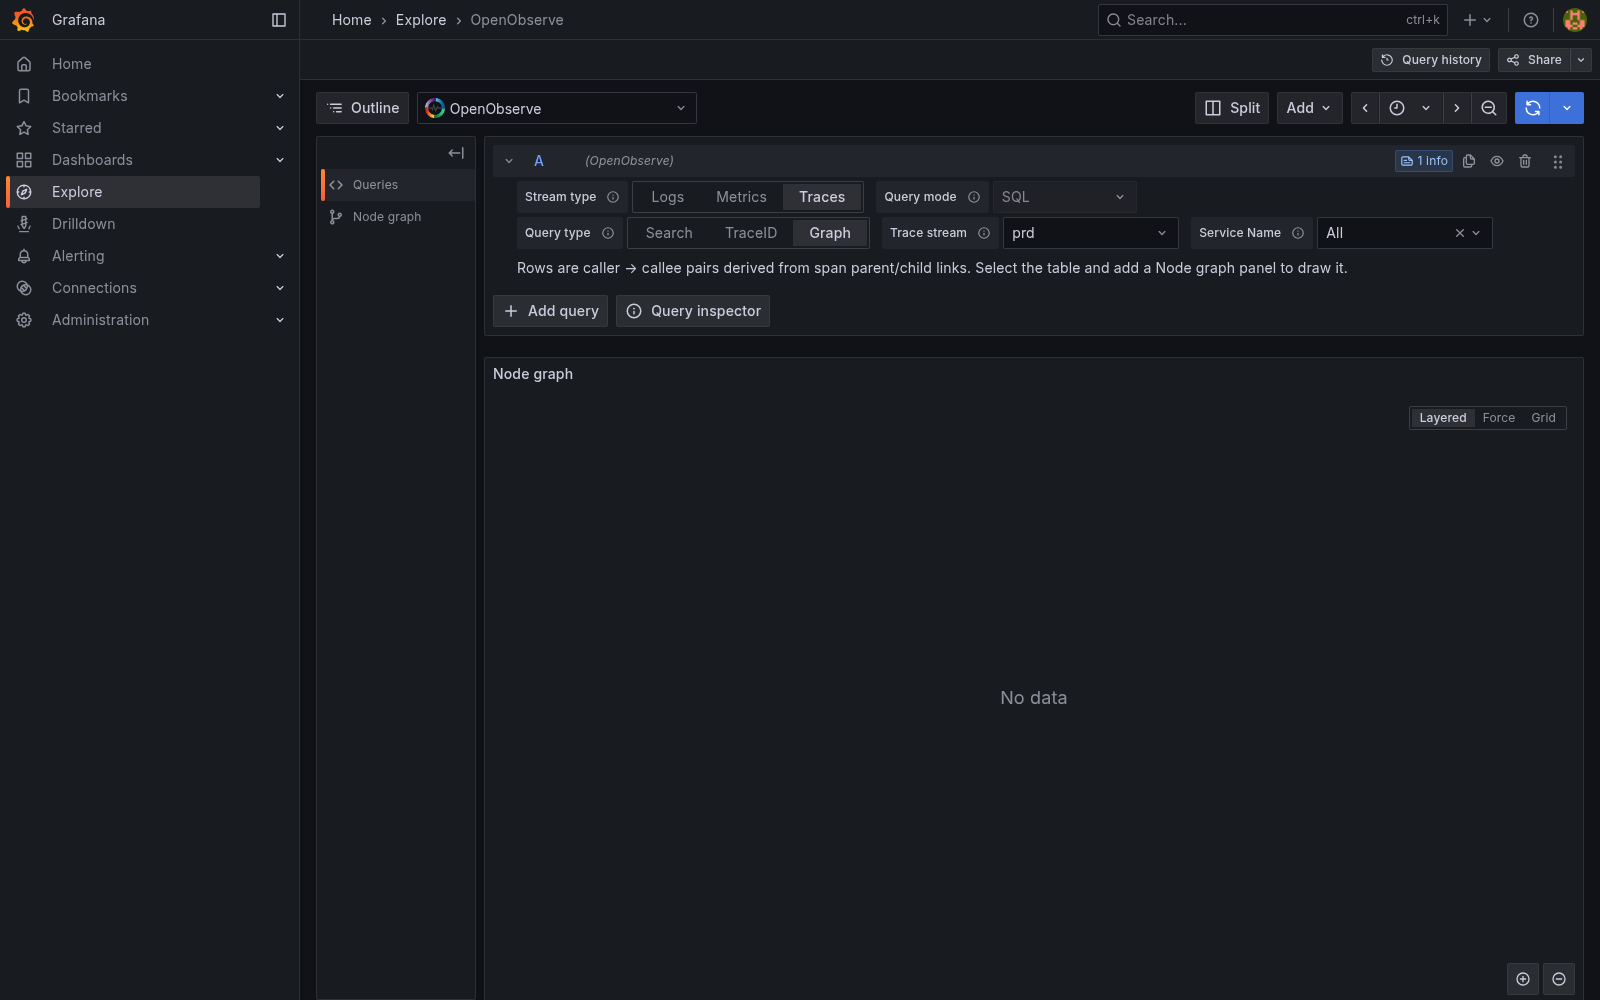
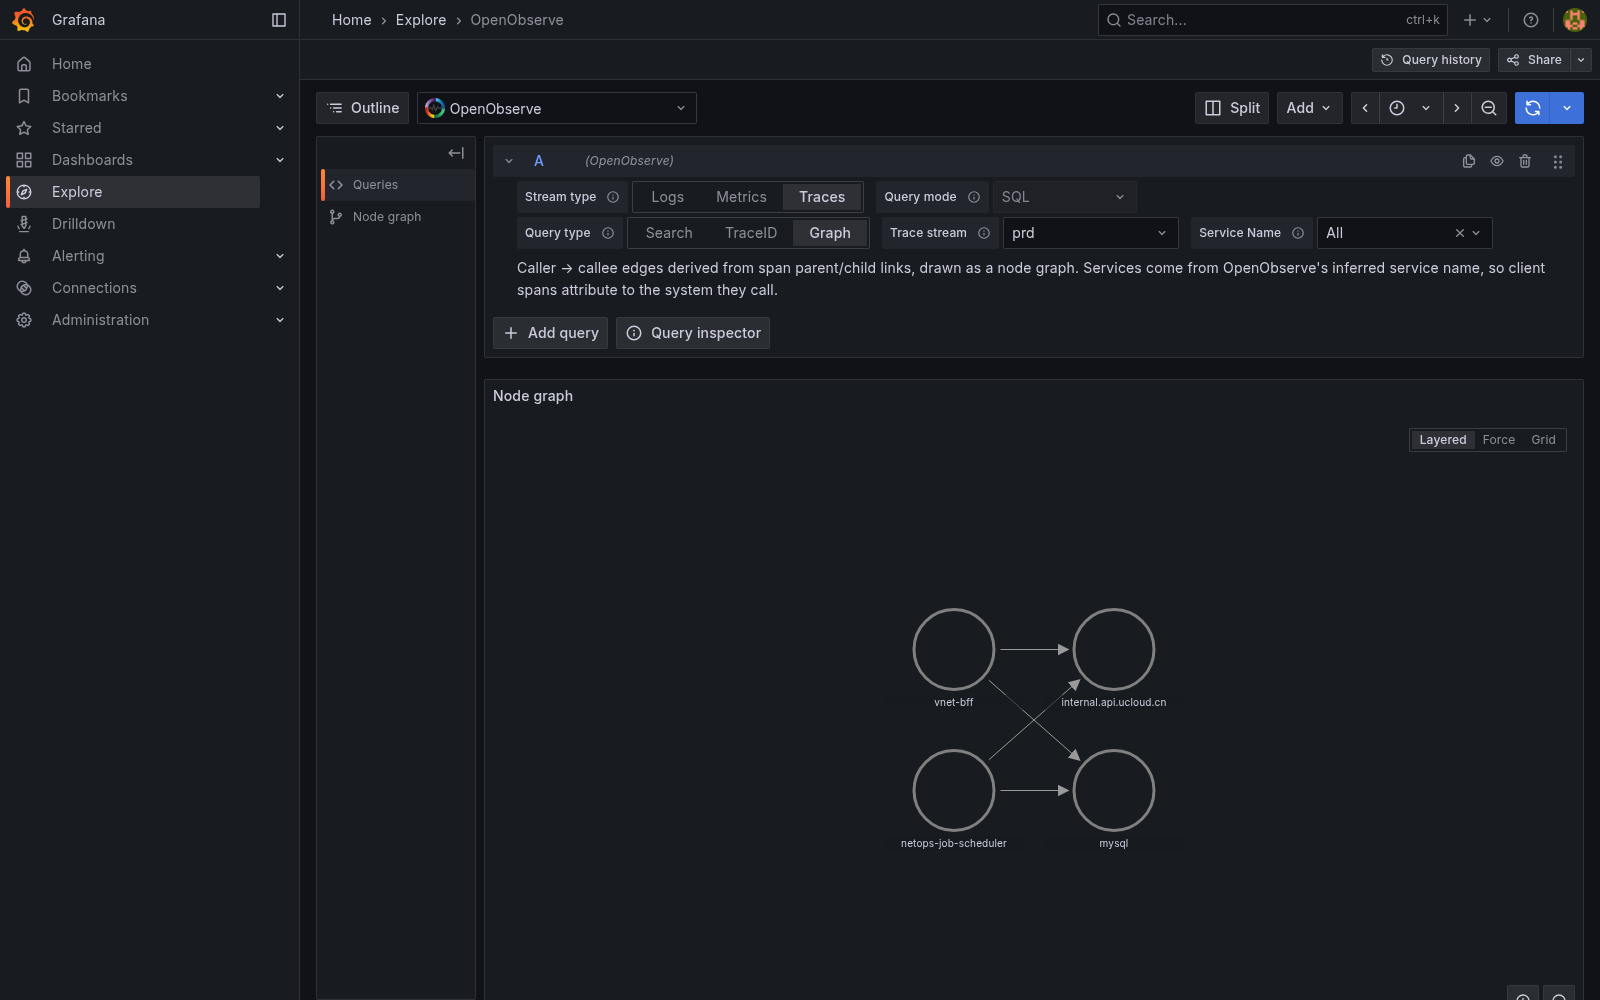
feat(traces): render the service graph and link trace ids
Two requests, and one of them explains why the graph never appeared.

**Service graph showed nothing.** The edge query paired spans by
`service_name`, which is the OTel *emitting* process: a client span that
calls another system still reports the caller, so every edge collapsed
into a self-loop and was filtered out. OpenObserve infers the callee
itself -- `infer_service_name` holds something like
`internal.api.ucloud.cn` where `service_name` says `vnet-bff` -- and its
own trace-details graph uses that column. The query now prefers it, with
`service_name` as the fallback for streams that lack the inferred field.

Verified against the live stream: four edges, including
`vnet-bff -> internal.api.ucloud.cn` (191 calls), which is exactly the
pair OpenObserve's own UI draws.

**Trace ids are now links.** The search table's traceID column opens the
trace on OpenObserve's trace-details page instead of requiring the id to
be copied into the TraceID field by hand. The link is a per-row
`${__value.raw}` template so one definition covers every row, and it
carries the organization.

A data link cannot switch this datasource's query mode, so it opens
OpenObserve rather than the in-Grafana TraceID tab; pasting the id there
still works.

Also reworded the Graph-mode hint, which still told the user to wire up a
Node graph panel by hand.

Tests: graph SQL shape and the inferred-service preference, plus the data
link. 79 Go tests and 100 frontend tests.

diff --git a/src/components/TraceQueryEditor.tsx b/src/components/TraceQueryEditor.tsx
@@ -258,8 +258,8 @@ export function TraceQueryEditor({ datasource, query, onChange, onRunQuery }: Tr
 
       {mode === 'graph' && !error && (
         <div style={{ color: 'var(--text-secondary)', marginTop: 4 }}>
-          Rows are caller → callee pairs derived from span parent/child links. Select the table and add a Node graph
-          panel to draw it.
+          Caller → callee edges derived from span parent/child links, drawn as a node graph. Services come from
+          OpenObserve&apos;s inferred service name, so client spans attribute to the system they call.
         </div>
       )}
     </div>

diff --git a/pkg/openobserve/trace.go b/pkg/openobserve/trace.go
@@ -120,26 +120,46 @@ func BuildTraceByIDSQL(q TraceQuery, defaultLimit int64) string {
 // OpenObserve has no dedicated dependency API, so the graph is derived from the
 // spans: for every span with a parent, pair the parent's service with the
 // child's service and count the calls between them.
+//
+// Which column names a "service" matters here. OTel's `service_name` is the
+// *emitting* process, so a client span that calls another system still reports
+// the caller's name and every edge collapses into a self-loop. OpenObserve
+// derives `infer_service_name` from the peer/target for exactly this purpose,
+// and its own trace-details graph uses it. The COALESCE keeps traces that lack
+// the inferred column (older data or other exporters) working.
 func BuildGraphSQL(q TraceQuery, defaultLimit int64) string {
 	if q.Stream == "" {
 		return ""
 	}
 	stream := alwaysQuote(q.Stream)
 	var sb strings.Builder
-	sb.WriteString(`SELECT parent.service_name AS parent_service,
-       child.service_name AS child_service,
+	sb.WriteString(`SELECT parent.parent_service AS parent_service,
+       child.child_service AS child_service,
        count(*) AS calls,
        avg(child.duration) AS avg_duration_us
-FROM `)
+FROM (SELECT span_id, duration, reference_parent_span_id AS parent_span, `)
+	sb.WriteString(serviceExpr("child"))
+	sb.WriteString(` AS child_service FROM `)
 	sb.WriteString(stream)
-	sb.WriteString(` AS child
-JOIN `)
+	sb.WriteString(`) AS child
+JOIN (SELECT span_id, `)
+	sb.WriteString(serviceExpr("parent"))
+	sb.WriteString(` AS parent_service FROM `)
 	sb.WriteString(stream)
-	sb.WriteString(` AS parent ON child.reference_parent_span_id = parent.span_id AND child.span_id <> parent.span_id`)
+	sb.WriteString(`) AS parent ON child.parent_span = parent.span_id`)
 	writeGraphWhere(&sb, q)
 	sb.WriteString(` GROUP BY parent_service, child_service ORDER BY calls DESC`)
 	sb.WriteString(fmt.Sprintf(` LIMIT %d`, graphLimit(q.Limit, defaultLimit)))
 	return sb.String()
+}
+
+// serviceExpr picks the column that names the callee.
+//
+// `infer_service_name` is OpenObserve's own inference (peer address, URL host);
+// `service_name` is the OTel fallback. Always-quoted so a dotted value or a
+// missing column does not change how the SQL parses.
+func serviceExpr(string) string {
+	return `COALESCE(NULLIF(infer_service_name, ''), service_name)`
 }
 
 // writeTraceWhere appends the WHERE clause shared by the search query.
@@ -170,8 +190,8 @@ func writeGraphWhere(sb *strings.Builder, q TraceQuery) {
 	// A span whose parent belongs to the same service is an internal call, not
 	// a service dependency; drawing it as an edge would only produce self-loops.
 	conds := []string{
-		"child.reference_parent_span_id IS NOT NULL",
-		"child.service_name <> parent.service_name",
+		"child.parent_span IS NOT NULL",
+		"child.child_service <> parent.parent_service",
 	}
 	if s := strings.TrimSpace(q.ServiceName); s != "" && s != "All" {
 		conds = append(conds, "child.service_name = "+sqlString(s))

diff --git a/pkg/plugin/trace.go b/pkg/plugin/trace.go
@@ -3,6 +3,7 @@ package plugin
 import (
 	"context"
 	"fmt"
+	"net/url"
 	"sort"
 	"strconv"
 	"strings"
@@ -131,7 +132,7 @@ func (d *Datasource) runTraceQuery(ctx context.Context, q backend.DataQuery, mod
 	case openobserve.TraceModeGraph:
 		frames = buildServiceGraphFrames(rs)
 	case openobserve.TraceModeSearch:
-		frames = buildTraceListFrames(rs, sql, since.Location())
+		frames = buildTraceListFrames(rs, sql, since.Location(), d.settings.URL, d.client.Organization())
 	default:
 		if len(rs.Rows) == 0 {
 			return backend.ErrDataResponseWithSource(backend.StatusBadRequest, backend.ErrorSourceDownstream,
@@ -192,7 +193,7 @@ func parseDurationUS(raw string) (int64, error) {
 // trace list behaves the same way here: traceID / traceName / startTime /
 // duration, with startTime in milliseconds and duration in microseconds. A
 // trace name is "service: operation", which is what Jaeger shows in its list.
-func buildTraceListFrames(rs *openobserve.ResultSet, executedQuery string, loc *time.Location) data.Frames {
+func buildTraceListFrames(rs *openobserve.ResultSet, executedQuery string, loc *time.Location, baseURL, org string) data.Frames {
 	if loc == nil {
 		loc = time.UTC
 	}
@@ -229,8 +230,43 @@ func buildTraceListFrames(rs *openobserve.ResultSet, executedQuery string, loc *
 		PreferredVisualization: data.VisTypeTable,
 		ExecutedQueryString:    executedQuery,
 	}
+
+	// Make the trace id clickable so a trace can be opened without copying the
+	// id into the TraceID field by hand.
+	if len(traceID) > 0 {
+		frame.Fields[0].Config = &data.FieldConfig{
+			Links: traceIDLinks(baseURL, org, traceID),
+		}
+	}
 	return data.Frames{frame}
 }
+
+// traceIDLinks builds one data link per row that opens the trace in
+// OpenObserve's own trace details page.
+//
+// Grafana data links carry a single URL template, so the per-trace id is
+// interpolated from the field value rather than baked in. The target points at
+// OpenObserve because a data link cannot change this datasource's query mode;
+// the same id can still be pasted into the TraceID tab.
+func traceIDLinks(baseURL, org string, ids []string) []data.DataLink {
+	base := strings.TrimRight(baseURL, "/")
+	if base == "" || len(ids) == 0 {
+		return nil
+	}
+	if org == "" {
+		org = "default"
+	}
+	url := fmt.Sprintf("%s/web/traces/trace-details?org_identifier=%s&trace_id=${__value.raw}",
+		base, orgQueryEscape(org))
+	return []data.DataLink{{
+		Title:       "Open trace in OpenObserve",
+		URL:         url,
+		TargetBlank: true,
+	}}
+}
+
+// orgQueryEscape percent-encodes an organization for a query parameter.
+func orgQueryEscape(org string) string { return url.QueryEscape(org) }
 
 // buildServiceGraphFrames renders the service dependency graph in the shape
 // Grafana's node graph panel consumes.

diff --git a/pkg/plugin/plugin_test.go b/pkg/plugin/plugin_test.go
@@ -619,3 +619,38 @@ func TestQueryDataTraceIgnoresLeftoverRawSql(t *testing.T) {
 		t.Errorf("the leftover rawSql leaked into the query: %q", gotSQL)
 	}
 }
+
+func TestTraceListLinksOpenTheTrace(t *testing.T) {
+	ds := newTestDatasource(t, http.HandlerFunc(func(rw http.ResponseWriter, _ *http.Request) {
+		_, _ = rw.Write([]byte(`{"hits":[
+			{"trace_id":"aaa","first_span":1793591689400000,"total_duration":1000,
+			 "spans":1,"entry_operation":"GET /","entry_service":"vnet-bff","services":1}
+		],"total":1}`))
+	}))
+
+	resp, err := ds.QueryData(context.Background(), queryRequest(t, map[string]any{
+		"queryType": "traces", "traceMode": "search", "table": "prd",
+	}))
+	if err != nil {
+		t.Fatalf("QueryData: %v", err)
+	}
+	frame := resp.Responses["A"].Frames[0]
+
+	// The id column must be clickable: opening a trace by copying its id into
+	// the TraceID field is exactly the friction this removes.
+	cfg := frame.Fields[0].Config
+	if cfg == nil || len(cfg.Links) == 0 {
+		t.Fatal("traceID column has no data links")
+	}
+	link := cfg.Links[0]
+	if !strings.Contains(link.URL, "/web/traces/trace-details") {
+		t.Errorf("link = %q, want the OpenObserve trace details page", link.URL)
+	}
+	// The id is interpolated per row, not baked into the template.
+	if !strings.Contains(link.URL, "${__value.raw}") {
+		t.Errorf("link = %q, want a per-row ${__value.raw} placeholder", link.URL)
+	}
+	if !strings.Contains(link.URL, "org_identifier=default") {
+		t.Errorf("link = %q, want the organization", link.URL)
+	}
+}

diff --git a/pkg/openobserve/trace_test.go b/pkg/openobserve/trace_test.go
@@ -85,16 +85,30 @@ func TestBuildTraceByIDSQL(t *testing.T) {
 func TestBuildGraphSQL(t *testing.T) {
 	sql := openobserve.BuildGraphSQL(openobserve.TraceQuery{Stream: "prd"}, 500)
 	for _, want := range []string{
-		`FROM "prd" AS child`,
-		`JOIN "prd" AS parent`,
-		`child.reference_parent_span_id = parent.span_id`,
-		`child.span_id <> parent.span_id`,
-		`child.service_name <> parent.service_name`,
+		`FROM (SELECT span_id`,
+		`FROM "prd") AS child`,
+		`JOIN (SELECT span_id`,
+		`ON child.parent_span = parent.span_id`,
 		`GROUP BY parent_service, child_service`,
 		`ORDER BY calls DESC`,
 	} {
 		if !strings.Contains(sql, want) {
 			t.Errorf("graph sql missing %q:\n%s", want, sql)
+		}
+	}
+
+	// The callee must come from OpenObserve's inferred service, otherwise a
+	// client span reports its own service and every edge becomes a self-loop.
+	if !strings.Contains(sql, "COALESCE(NULLIF(infer_service_name, ''), service_name)") {
+		t.Errorf("graph sql does not prefer infer_service_name:\n%s", sql)
+	}
+	// Self-loops and parentless spans are excluded by the outer filter.
+	for _, want := range []string{
+		"child.parent_span IS NOT NULL",
+		"child.child_service <> parent.parent_service",
+	} {
+		if !strings.Contains(sql, want) {
+			t.Errorf("graph sql missing the %q filter:\n%s", want, sql)
 		}
 	}
 }

diff --git a/README.md b/README.md
@@ -77,7 +77,8 @@ The trace editor mirrors Jaeger's three modes and the backend builds the SQL for
 each one.
 
 **Search** lists the traces that match the filters (service, operation, tags,
-min/max duration). The columns match what Grafana's Jaeger plugin returns:
+min/max duration). The columns match what Grafana's Jaeger plugin returns, and
+the trace id is a link that opens the trace directly:
 
 ![Trace search](doc/screenshot/trace_search.png)
 
@@ -87,8 +88,9 @@ native waterfall with real parent/child nesting:
 ![Trace waterfall](doc/screenshot/trace_waterfall.png)
 
 **Graph** derives service-to-service call counts from the span parent links and
-returns them as a node graph. A stream whose spans are all intra-service
-correctly produces no edges:
+renders them as a Grafana node graph. The callee is taken from OpenObserve's
+inferred service name, so a client span attributes to the system it calls rather
+than to the caller:
 
 ![Trace graph](doc/screenshot/trace_graph.png)
 
